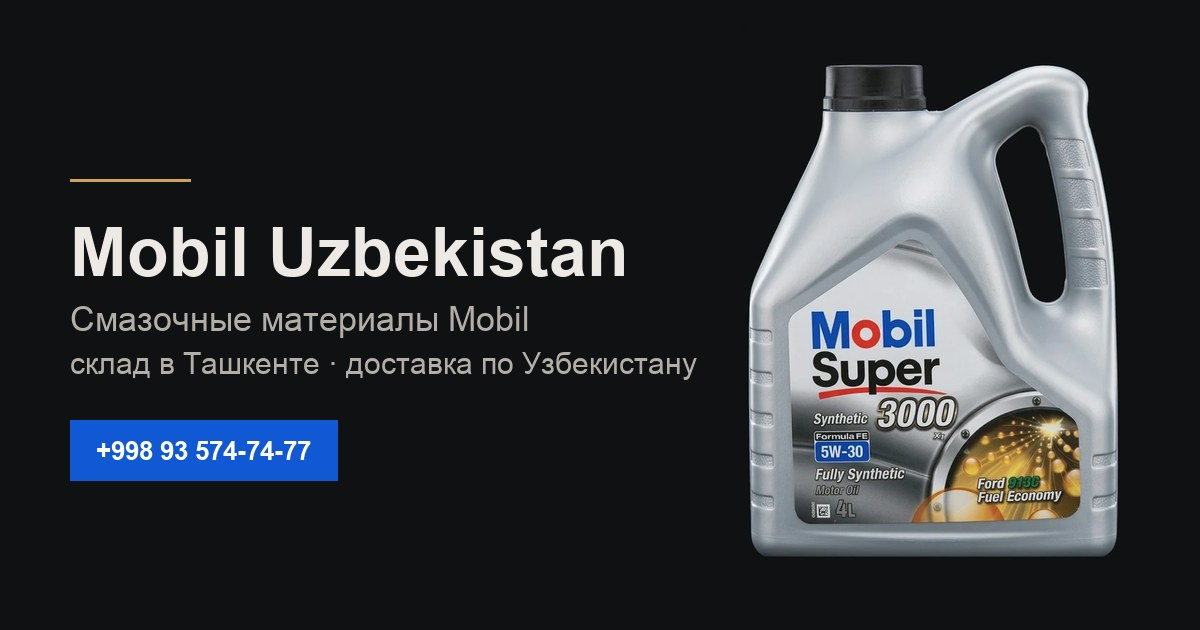
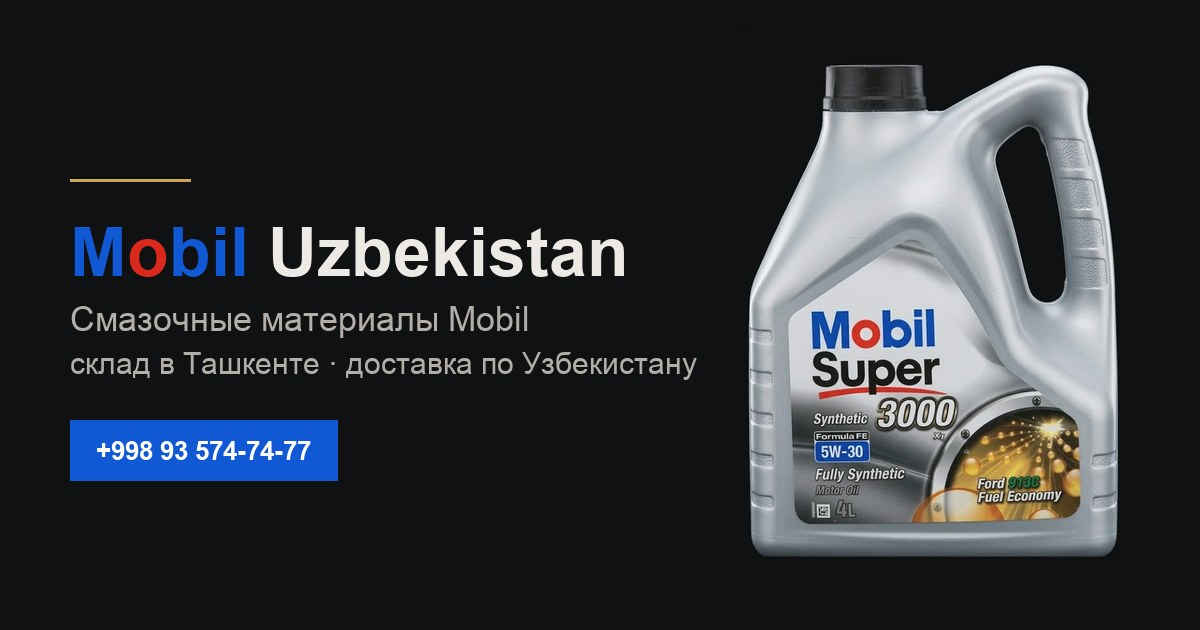
Написание Mobil как на этикетке: синие буквы, красная «о»
Логотип в шапке, заголовок первого экрана, подвал и картинка для соцсетей.
В шапке снят капслок — на канистре логотип строчными, иначе «о» была бы
заглавной и не совпадала. Синий взят поднятый по светлоте (#1159d4):
фирменный флотский #053fa3 на почти чёрном фоне не читается.

Changed region(s): [[0.0617, 0.3619, 0.2158, 0.4524]]

diff --git a/index.html b/index.html
@@ -43,7 +43,7 @@
 
   <header class="header">
     <div class="brand">
-      <a class="brand__name" href="index.html">Mobil Uzbekistan</a>
+      <a class="brand__name" href="index.html"><span class="wm-b">M</span><span class="wm-r">o</span><span class="wm-b">bil</span> Uzbekistan</a>
       <span class="brand__bar"></span>
       <span class="brand__sub">Масла Mobil</span>
     </div>
@@ -75,7 +75,7 @@
     <div class="hero__main">
       <div class="hero__text">
         <div class="kicker kicker--gold">Опт и корпоративные поставки</div>
-        <h1 class="h1">Mobil Uzbekistan<span class="h1__sub">смазочные материалы в Ташкенте</span></h1>
+        <h1 class="h1"><span class="wm-b">M</span><span class="wm-r">o</span><span class="wm-b">bil</span> Uzbekistan<span class="h1__sub">смазочные материалы в Ташкенте</span></h1>
         <p class="hero__lead">Смазочные материалы Mobil: моторные, трансмиссионные и промышленные. Всё в наличии на складе в Ташкенте, оплата перечислением, доставка по Узбекистану.</p>
         <div class="hero__cta">
           <a class="btn btn--action btn--tel" href="tel:+998935747477"><span class="tel-num">+998 93 574-74-77</span><span class="tel-word">Позвонить</span></a>
@@ -414,7 +414,7 @@
   </section>
 
   <footer class="footer">
-    <span>Mobil Uzbekistan · поставки масел и смазок Mobil</span>
+    <span><span class="wm-b">M</span><span class="wm-r">o</span><span class="wm-b">bil</span> Uzbekistan · поставки масел и смазок Mobil</span>
     <a href="https://www.instagram.com/tegeta_motors_uzbekistan/" rel="noopener">Instagram</a>
     <span>Mobil — товарный знак правообладателя. Компания является независимым поставщиком.</span>
     <span>Сайт — <a href="https://sales-hub.uz" rel="noopener">Sales HUB</a></span>

diff --git a/style.css b/style.css
@@ -30,6 +30,7 @@
   --gold:#cca558;
   --gold-hover:#e2bd79;
   --gold-dim:#b78c41;
+  --mobil-red:#da291c;   /* красная «о» в логотипе */
 
   /* штриховка на местах фотографий */
   --hatch-bg:#191c1f;
@@ -140,9 +141,9 @@ summary::-webkit-details-marker{display:none}
   padding:22px var(--pad);border-bottom:1px solid var(--line);
 }
 .brand{display:flex;align-items:baseline;gap:12px;flex-shrink:0}
-.brand__name{font-size:21px;font-weight:700;letter-spacing:.02em;text-transform:uppercase;white-space:nowrap}
+.brand__name{font-size:22px;font-weight:700;letter-spacing:-.01em;white-space:nowrap}
 a.brand__name{transition:color .15s}
-a.brand__name:hover{color:var(--gold)}
+a.brand__name:hover{opacity:.82}
 .brand__bar{width:1px;height:18px;background:var(--line-strong);align-self:center}
 .brand__sub{font-family:var(--mono);font-size:11px;letter-spacing:.14em;text-transform:uppercase;color:var(--dim);white-space:nowrap}
 
@@ -494,3 +495,8 @@ img.cat__ph{width:100%;object-fit:cover}
   font-size:clamp(15px,1.3vw,18px);font-weight:500;letter-spacing:0;
   line-height:1.4;color:var(--muted);
 }
+
+/* написание как на этикетке: синие буквы, красная «о» */
+.wm-b{color:var(--action)}
+.wm-r{color:var(--mobil-red)}
+.footer .wm-b,.footer .wm-r{font-weight:600}

diff --git a/service.html b/service.html
@@ -42,7 +42,7 @@
 
   <header class="header">
     <div class="brand">
-      <a class="brand__name" href="index.html">Mobil Uzbekistan</a>
+      <a class="brand__name" href="index.html"><span class="wm-b">M</span><span class="wm-r">o</span><span class="wm-b">bil</span> Uzbekistan</a>
       <span class="brand__bar"></span>
       <span class="brand__sub">Свой сервис</span>
     </div>
@@ -204,7 +204,7 @@
   </section>
 
   <footer class="footer">
-    <span>Mobil Uzbekistan · поставки масел и смазок Mobil</span>
+    <span><span class="wm-b">M</span><span class="wm-r">o</span><span class="wm-b">bil</span> Uzbekistan · поставки масел и смазок Mobil</span>
     <a href="https://www.instagram.com/tegeta_motors_uzbekistan/" rel="noopener">Instagram</a>
     <span>Mobil — товарный знак правообладателя. Компания является независимым поставщиком.</span>
     <span>Сайт — <a href="https://sales-hub.uz" rel="noopener">Sales HUB</a></span>
